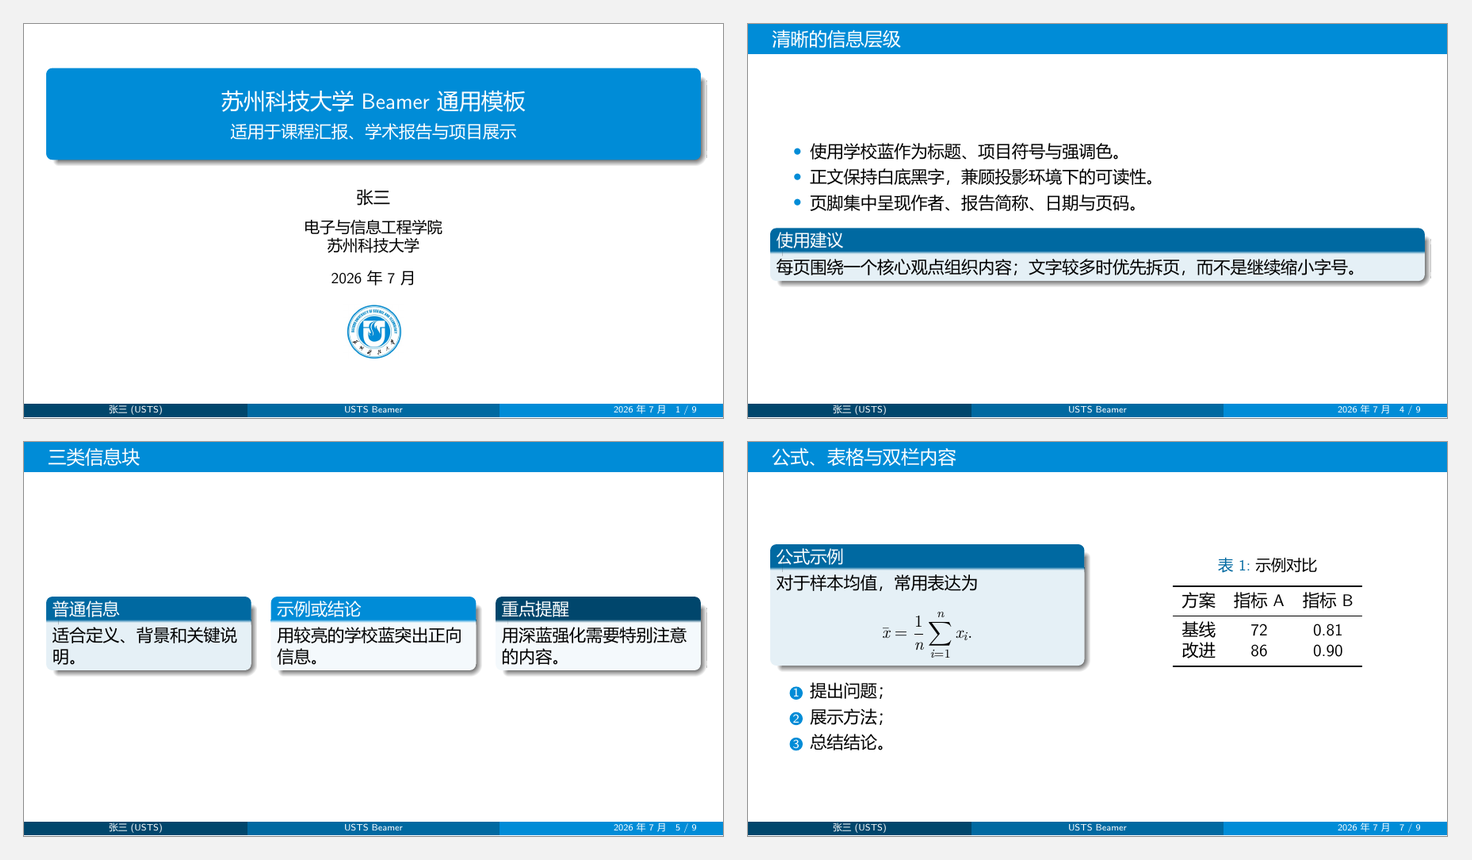
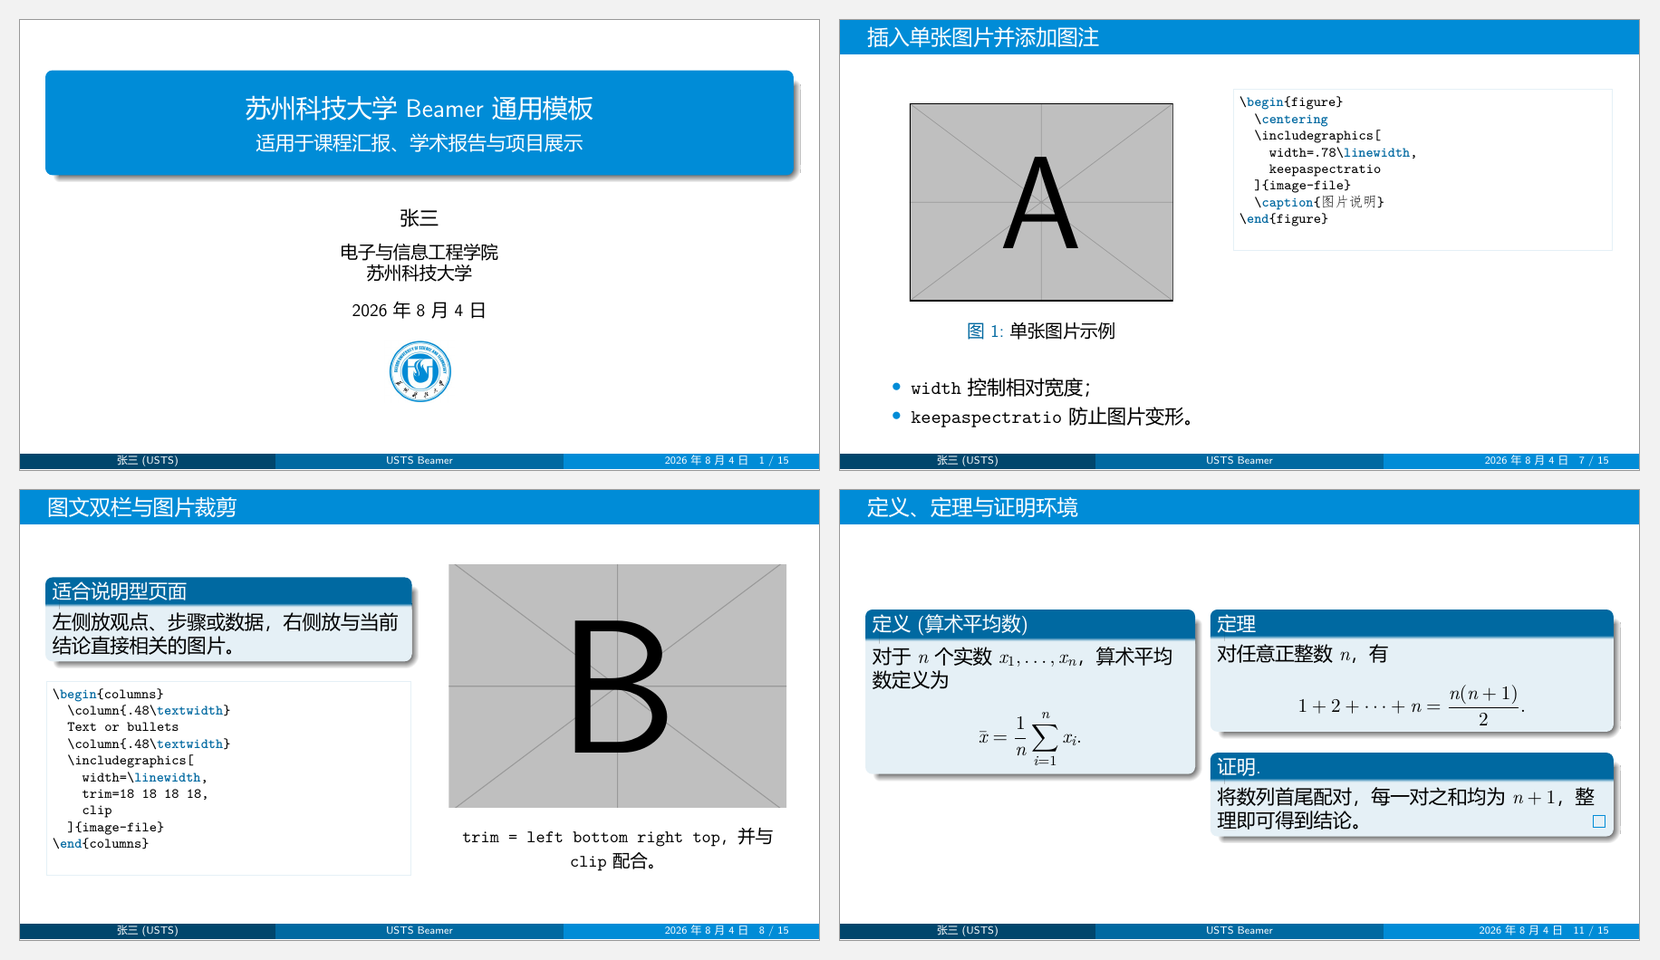
Add practical Beamer syntax examples (#1)

diff --git a/example.tex b/example.tex
@@ -1,11 +1,12 @@
 \documentclass[aspectratio=169,11pt]{beamer}
 
 \usepackage[UTF8]{ctex}
-\usepackage{amsmath,amssymb,booktabs,graphicx,listings}
+\usepackage{amsmath,amssymb,booktabs,graphicx,listings,mwe}
 
 \usetheme[footline=full]{USTS}
 
 \hypersetup{hidelinks}
+\graphicspath{{assets/}}
 
 \lstset{
   basicstyle=\ttfamily\small,
@@ -13,16 +14,18 @@
   commentstyle=\color{USTSGray},
   frame=single,
   rulecolor=\color{USTSLightBlue},
+  breaklines=true,
   columns=fullflexible,
-  keepspaces=true
+  keepspaces=true,
+  showstringspaces=false
 }
 
 \title[USTS Beamer]{苏州科技大学 Beamer 通用模板}
 \subtitle{适用于课程汇报、学术报告与项目展示}
 \author[张三]{张三}
 \institute[USTS]{电子与信息工程学院\\苏州科技大学}
-\date{2026 年 7 月}
-\titlegraphic{\includegraphics[height=1.25cm]{assets/usts-logo.jpg}}
+\date{\today}
+\titlegraphic{\includegraphics[height=1.25cm]{usts-logo.jpg}}
 
 \AtBeginSection[]{
   \begin{frame}[plain]
@@ -73,6 +76,69 @@
   \end{columns}
 \end{frame}
 
+\section{图片与布局}
+
+\begin{frame}[fragile]{插入单张图片并添加图注}
+  \begin{columns}[T,onlytextwidth]
+    \column{0.46\textwidth}
+      \begin{figure}
+        \centering
+        \includegraphics[width=0.78\linewidth,keepaspectratio]{example-image-a}
+        \caption{单张图片示例}
+      \end{figure}
+
+      \begin{itemize}
+        \item \texttt{width} 控制相对宽度；
+        \item \texttt{keepaspectratio} 防止图片变形。
+      \end{itemize}
+
+    \column{0.50\textwidth}
+      \begin{lstlisting}[language={[LaTeX]TeX},basicstyle=\ttfamily\scriptsize]
+\begin{figure}
+  \centering
+  \includegraphics[
+    width=.78\linewidth,
+    keepaspectratio
+  ]{image-file}
+  \caption{图片说明}
+\end{figure}
+      \end{lstlisting}
+  \end{columns}
+\end{frame}
+
+\begin{frame}[fragile]{图文双栏与图片裁剪}
+  \begin{columns}[T,onlytextwidth]
+    \column{0.48\textwidth}
+      \begin{block}{适合说明型页面}
+        左侧放观点、步骤或数据，右侧放与当前结论直接相关的图片。
+      \end{block}
+
+      \begin{lstlisting}[language={[LaTeX]TeX},basicstyle=\ttfamily\scriptsize]
+\begin{columns}
+  \column{.48\textwidth}
+  Text or bullets
+  \column{.48\textwidth}
+  \includegraphics[
+    width=\linewidth,
+    trim=18 18 18 18,
+    clip
+  ]{image-file}
+\end{columns}
+      \end{lstlisting}
+
+    \column{0.46\textwidth}
+      \centering
+      \includegraphics[
+        width=\linewidth,
+        trim=18 18 18 18,
+        clip
+      ]{example-image-b}
+
+      \vspace{0.6em}
+      {\small \texttt{trim = left bottom right top}，并与 \texttt{clip} 配合。}
+  \end{columns}
+\end{frame}
+
 \section{常用内容}
 
 \begin{frame}{公式、表格与双栏内容}
@@ -107,6 +173,60 @@
   \end{columns}
 \end{frame}
 
+\begin{frame}{定义、定理与证明环境}
+  \begin{columns}[T,onlytextwidth]
+    \column{0.43\textwidth}
+      \begin{definition}[算术平均数]
+        对于 $n$ 个实数 $x_1,\ldots,x_n$，算术平均数定义为
+        \[
+          \bar{x}=\frac{1}{n}\sum_{i=1}^{n}x_i.
+        \]
+      \end{definition}
+
+    \column{0.53\textwidth}
+      \begin{theorem}
+        \normalfont
+        对任意正整数 $n$，有
+        \[
+          1+2+\cdots+n=\frac{n(n+1)}{2}.
+        \]
+      \end{theorem}
+
+      \begin{proof}
+        \normalfont
+        将数列首尾配对，每一对之和均为 $n+1$，整理即可得到结论。
+      \end{proof}
+  \end{columns}
+\end{frame}
+
+\begin{frame}[fragile]{用覆盖层逐步显示内容}
+  \begin{columns}[T,onlytextwidth]
+    \column{0.43\textwidth}
+      \begin{enumerate}[<+->]
+        \item 先说明问题背景；
+        \item 再展示分析过程；
+        \item 最后给出关键结论。
+      \end{enumerate}
+
+      \uncover<4->{
+        \begin{exampleblock}{呈现原则}
+          逐步显示应服务于讲解节奏，而不是制造无意义的动画。
+        \end{exampleblock}
+      }
+
+    \column{0.53\textwidth}
+      \begin{lstlisting}[language={[LaTeX]TeX},basicstyle=\ttfamily\scriptsize]
+\begin{enumerate}[<+->]
+  \item First point
+  \item Second point
+  \item Final point
+\end{enumerate}
+
+\uncover<4->{Final result}
+      \end{lstlisting}
+  \end{columns}
+\end{frame}
+
 \begin{frame}[fragile]{代码与技术内容}
   \begin{lstlisting}[language=Python]
 def mean(values):
@@ -120,14 +240,40 @@ def mean(values):
   \end{itemize}
 \end{frame}
 
-\begin{frame}{总结}
-  \begin{block}{模板定位}
-    在保留原幻灯片配色与视觉特征的基础上，提供一套更易复用、易维护的校级通用 Beamer 主题。
+\begin{frame}[fragile]{超链接、按钮与页内跳转}
+  \begin{columns}[T,onlytextwidth]
+    \column{0.44\textwidth}
+      \begin{block}{外部链接}
+        \href{https://www.usts.edu.cn/}{\beamergotobutton{苏州科技大学官网}}
+      \end{block}
+
+      \begin{block}{页内跳转}
+        \hyperlink{summary}{\beamergotobutton{跳到总结页}}
+      \end{block}
+
+    \column{0.52\textwidth}
+      \begin{lstlisting}[language={[LaTeX]TeX},basicstyle=\ttfamily\scriptsize]
+\href{https://example.com}{
+  \beamergotobutton{Website}
+}
+
+\hyperlink{summary}{
+  \beamergotobutton{Go to summary}
+}
+      \end{lstlisting}
+  \end{columns}
+\end{frame}
+
+\begin{frame}[label=summary]{从示例开始制作你的报告}
+  \begin{block}{下一步}
+    复制 \texttt{example.tex}，替换标题、作者、学院、正文和图片，即可开始制作自己的报告。
   \end{block}
 
-  \vfill
-  \centering
-  {\Large \color{USTSBlue}谢谢！}
+  \begin{itemize}
+    \item 保留主题文件，按需要选择页脚模式；
+    \item 将图片集中放入 \texttt{assets/}，并使用相对路径引用；
+    \item 编译后逐页检查文字换行、图片清晰度和内容密度。
+  \end{itemize}
 \end{frame}
 
 \end{document}

diff --git a/README.md b/README.md
@@ -26,6 +26,7 @@
 ```tex
 \documentclass[aspectratio=169,11pt]{beamer}
 \usepackage[UTF8]{ctex}
+\usepackage{graphicx}
 \usetheme[footline=full]{USTS}
 
 \title{报告标题}
@@ -42,6 +43,43 @@ latexmk -xelatex -interaction=nonstopmode -halt-on-error example.tex
 ```
 
 完整用法见 [`example.tex`](example.tex)。
+
+## 常用语法示例
+
+`example.tex` 现在覆盖以下常见场景：
+
+- 单张图片、图注、等比例缩放；
+- 图文双栏、图片裁剪与对齐；
+- 公式、表格、普通块、示例块和提醒块；
+- 定义、定理与证明环境；
+- 使用覆盖层逐步显示内容；
+- Python 代码高亮；
+- 外部链接、Beamer 按钮和页内跳转。
+
+插入自己的图片时，可直接使用：
+
+```tex
+\begin{figure}
+  \centering
+  \includegraphics[
+    width=0.7\linewidth,
+    keepaspectratio
+  ]{assets/image-file.jpg}
+  \caption{图片说明}
+\end{figure}
+```
+
+需要裁剪时使用 `trim = left bottom right top`，并同时加入 `clip`：
+
+```tex
+\includegraphics[
+  width=\linewidth,
+  trim=18 18 18 18,
+  clip
+]{assets/image-file.jpg}
+```
+
+示例中的 `example-image-a` 和 `example-image-b` 来自 TeX Live 的 `mwe` 宏包，仅用于演示图片布局；实际使用时替换为自己的图片即可。
 
 ## 页脚选项
 
